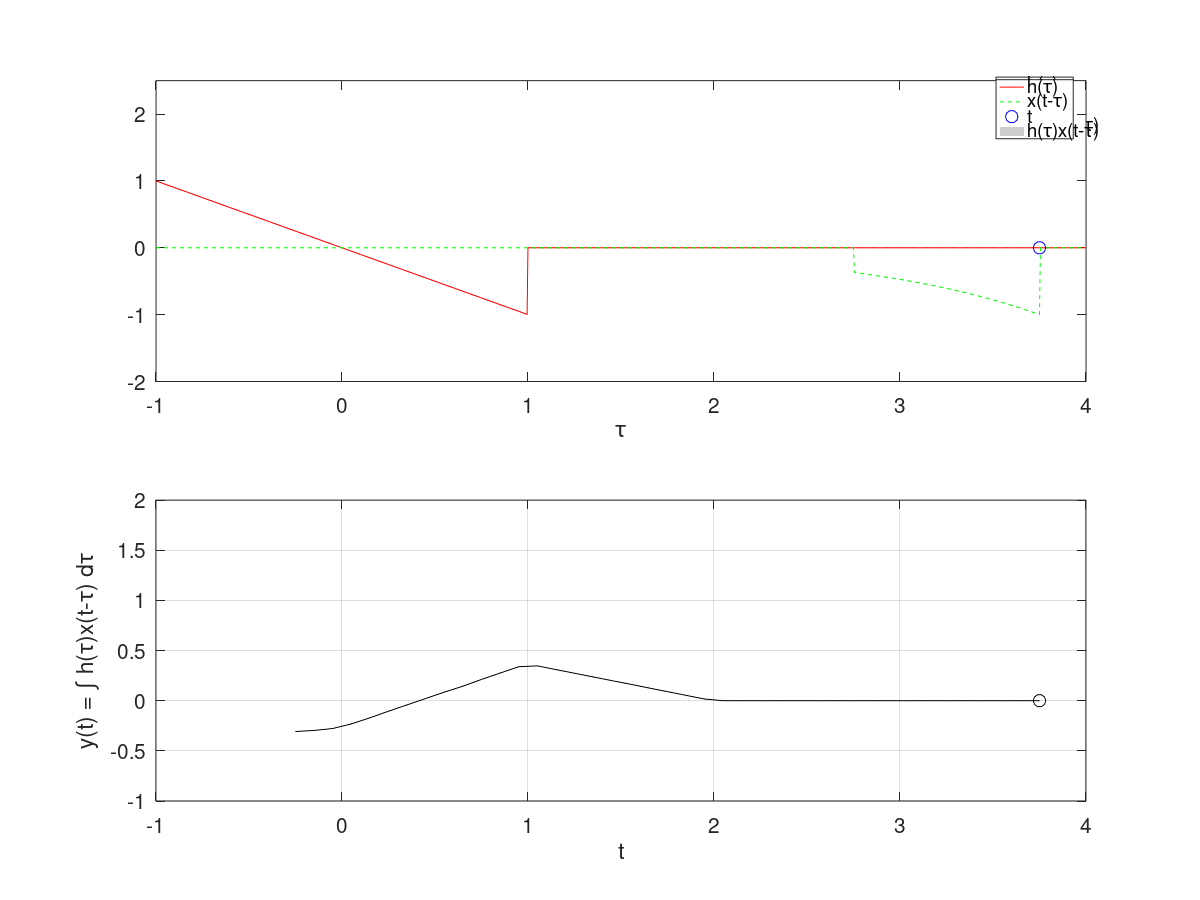
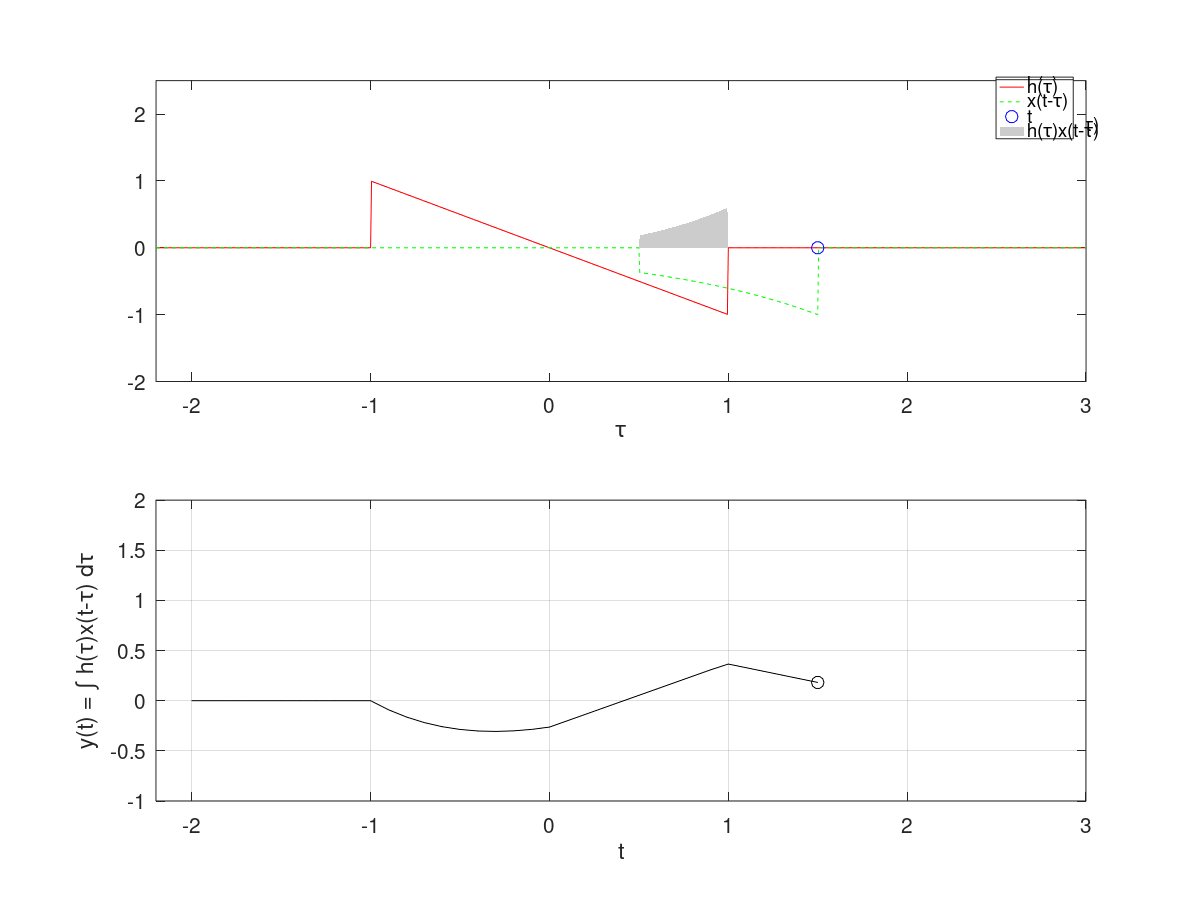
gif ejercicio 1

diff --git a/P04/convconm.m b/P04/convconm.m
@@ -31,9 +31,9 @@ Tam1 = size(x(1,:));
     T3 = T1+T2-1;
   figure (1) % Se crea una figura para hacer las graficas
   dtau = 0.005; % Base de los rectangulos para realizar la integral 
-  tau = -1:dtau:4; % Intervalo de visualizacion del resultado
+  tau = -2.2:dtau:3; % Intervalo de visualizacion del resultado
   ti = 0; % Indice para el vector de resultados
-  tvec = -.25:.1:3.75; % traslaciones de t, cuantas integrales se calulan  
+  tvec = -2:.1:2; % traslaciones de t, cuantas integrales se calulan  
   y = NaN*zeros(1, length (tvec)); % Resultados de acuerdo a cuantos t
   hFig = figure();
   set(hFig, 'Position', [0 0 1000 1000])
